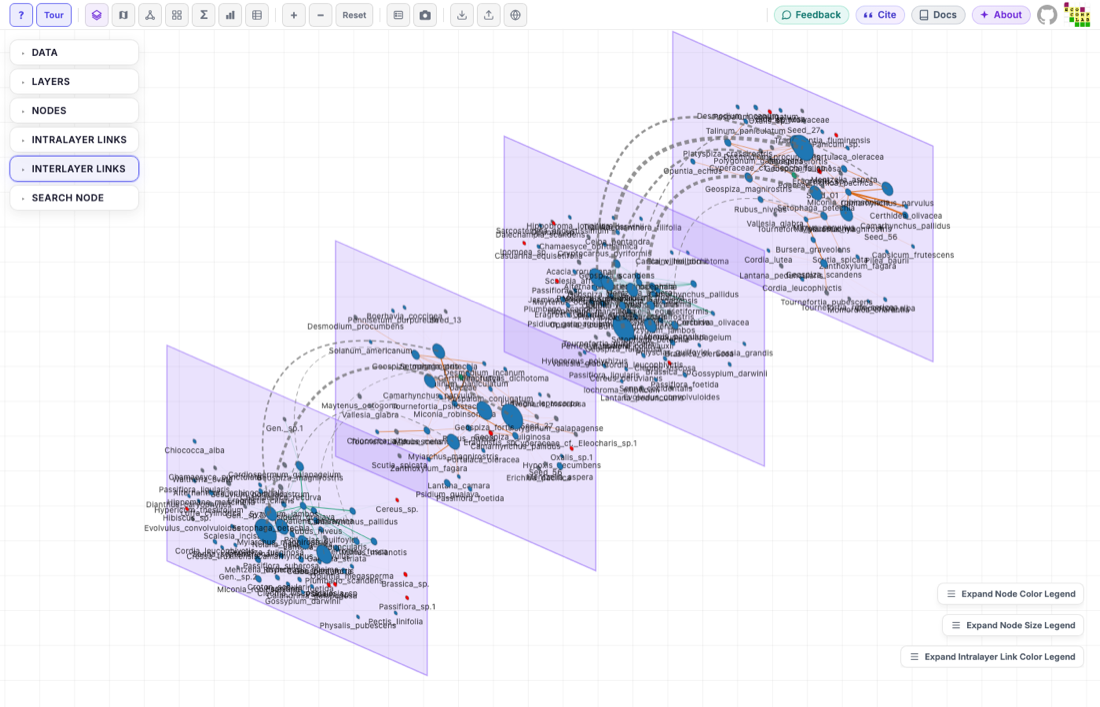
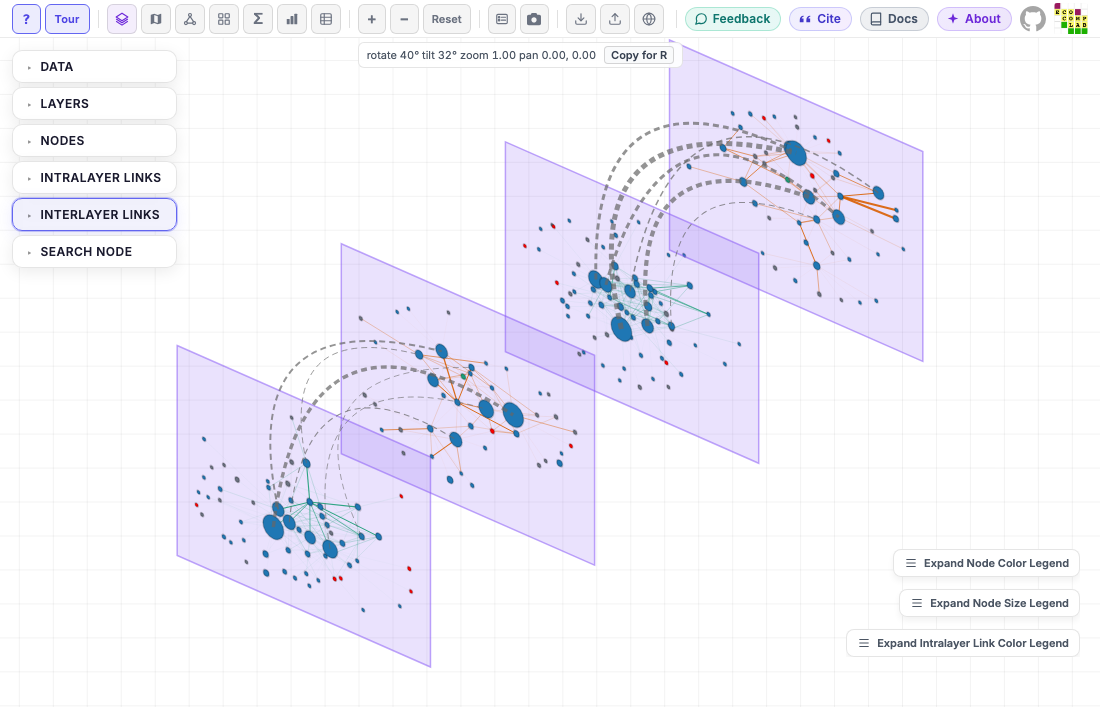
Docs: public install text, polished overview, screenshots without node labels
- README: overview polished; installation written for a public repo not
  yet on CRAN (no token note). Beta-testing article and DESCRIPTION
  updated the same way.
- Getting started: node labels removed from the code and text; steps 3-8
  screenshots and the grid and meta-network help images regenerated
  without node names.

diff --git a/README.md b/README.md
@@ -6,27 +6,26 @@
 
 ## Overview
 
-ggmira plots multilayer networks in [MiRA](https://mira.ecomplab.com/), the
-browser-based multilayer network visualizer, and describes how they should
-look with code, the way ggplot2 does. Start from a network with `mira()`
-and add components with `+`: the layout, nodes, links, layers, scales,
-camera, filters and views. Printing the plot opens it in MiRA with those
-settings applied, and everything can still be changed there.
+ggmira is an R interface to [MiRA](https://mira.ecomplab.com/), the
+browser-based multilayer network visualizer. Its syntax follows ggplot2:
+start from a base plot with `mira()` and add components with `+` to control
+the nodes, links, layers and more. Using MiRA as the engine makes the plot
+both reproducible, because it is described in code, and interactive, because it opens in MiRA, where you can keep exploring and adjusting it.  It also enables using the seven visualization models of MIRA as well as a suite of other features such as node highlighting.
 
 ggmira works with the multilayer objects of the
 [emln](https://emln.ecomplab.com/) package, and includes its own copy of
-MiRA, so plots open without internet access.
+MiRA, so plots open without an internet connection.
+
 
 ## Installation
+
+ggmira is not on CRAN yet. Install the development version from GitHub:
 
 ```r
 install.packages("emln")
 # install.packages("remotes")
 remotes::install_github("Ecological-Complexity-Lab/ggmira")
 ```
-
-The repository is private: `install_github()` needs a GitHub token with
-access to it (see [Beta testing](https://github.com/Ecological-Complexity-Lab/ggmira/blob/main/vignettes/articles/beta-testing.Rmd)).
 
 ## Usage
 
